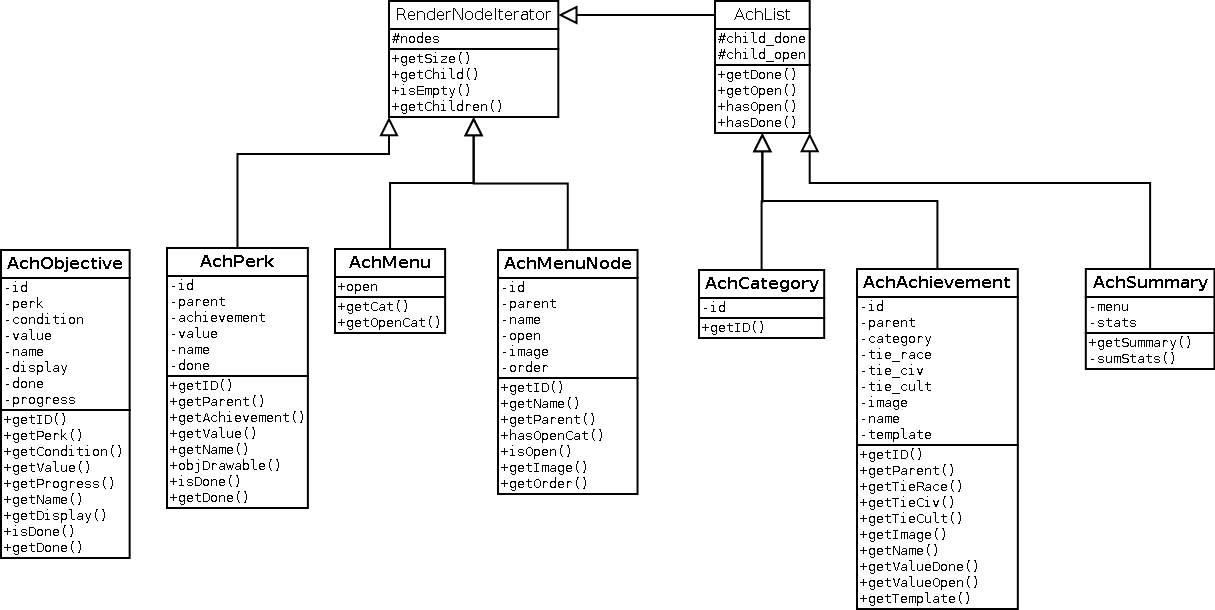
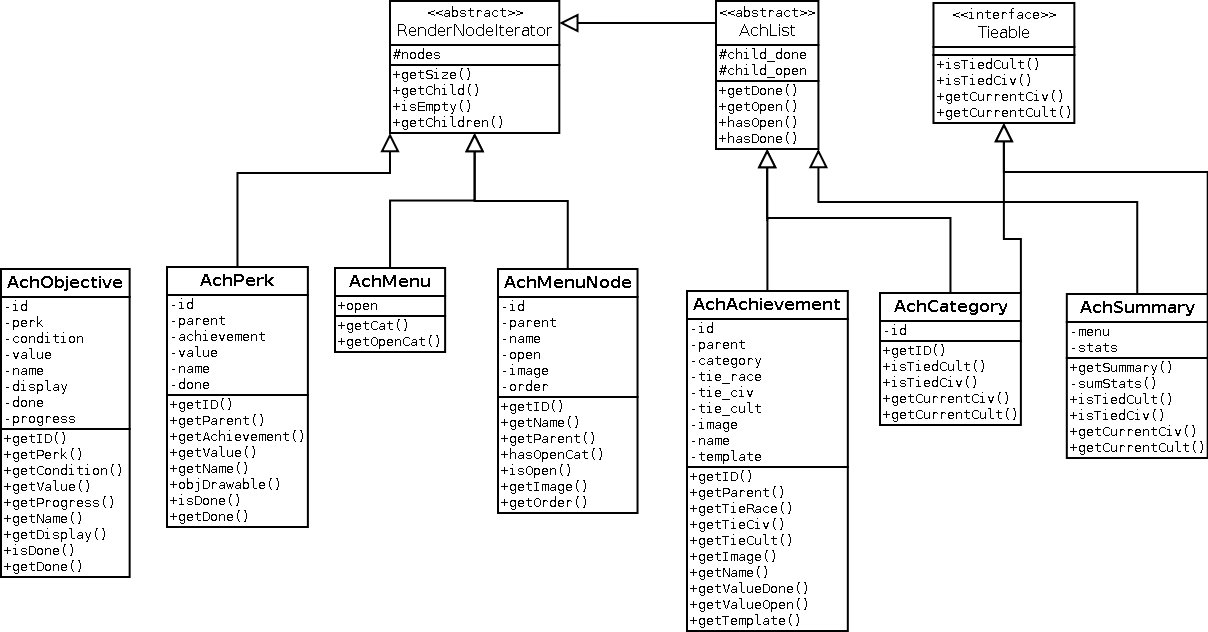
#1470 monday's push_all
--HG--
branch : gsoc2012-achievements

Changed region(s): [[0.0, 0.0, 1.0, 1.0], [0.827, 0.3738, 0.8576, 0.4049]]

diff --git a/code/web/app/app_achievements/_AchWebParser/class/Atom_class.php b/code/web/app/app_achievements/_AchWebParser/class/Atom_class.php
@@ -1,0 +1,162 @@
+<?php
+	class Atom {
+		private $ruleset;
+		private $ruleset_parsed;
+
+		private $id;
+		private $objective;
+
+		function Atom(&$data) {
+			$this->ruleset = $data['atom_ruleset'];
+			$this->ruleset_parsed = false;
+
+			$this->id = $data['atom_id'];
+			$this->objective = $data['atom_objective'];
+		}
+
+		private function parseRuleset() {
+			#WORKPAD:####
+			/*
+			Trigger:
+				by value
+				(by event)
+
+			Sources:
+				XML
+				valuecache
+				ring_open
+				(Achievement Service)
+					(Mirror Service)
+			
+			Keywords:
+				VALUE
+				GRANT:EVENT player_death
+				DENY:TIMER 3600
+				RESET
+				RESET_ALL
+				UNLOCK
+				UNLOCK_ALL
+
+				IF
+				SCRIPT
+				MSG
+			
+			VALUE dappers = c_money
+			IF(dappers >= 5000) {
+				GRANT
+			}
+			
+			VALUE tmp = c_fame[scorchers]
+			IF(tmp == 0) {
+				DENY:3600
+			}
+			
+			VALUE x = c_pos_x
+			VALUE y = c_pos_y
+			SCRIPT inside(x,y) {
+				IF(MSG == "Majestic Garden") {
+					GRANT
+				}
+			}
+
+			EVENT player_death
+			ON player_death {
+				UNLOCK
+			}
+
+			EVENT region_changed
+			ON region_changed {
+				IF(MSG == "Majestic Garden") {
+					GRANT
+				}
+			}
+			*/
+			#############
+
+
+			VALUE var = name
+
+			IF(statement) {
+
+			}
+
+			SCRIPT script(a,r,g,s) {
+				MSG
+			}
+
+			EVENT name
+			
+			ON name {
+				MSG
+			}
+
+			GRANT
+			GRANT:EVENT name
+			GRANT:TIMER seconds
+
+			DENY
+			DENY:EVENT name
+			DENY:TIMER seconds
+
+			RESET
+			RESET_ALL
+			UNLOCK
+			UNLOCK_ALL
+		}
+
+		function evalRuleset($user) {
+			global $DBc,$_DATA;
+
+			if($this->ruleset_parsed == false) {
+				$this->parseRuleset();
+			}
+
+			try {
+				return eval($this->ruleset_parsed);
+			}
+			catch(Exception $e) {
+				return $e->getMessage()
+			}
+		}
+
+		private function grant($user,$condition) {
+			global $DBc;
+
+			$DBc->sendSQL("INSERT INTO ach_player_atom (apa_atom,apa_player,apa_date,apa_expire,apa_state) VALUES ('".$this->id."','".$user."','".date()."','".$DBc->mre($condition)."','GRANT')","NONE");
+		}
+
+		private function deny($user,$condition) {
+			global $DBc;
+
+			$DBc->sendSQL("INSERT INTO ach_player_atom (apa_atom,apa_player,apa_date,apa_expire,apa_state) VALUES ('".$this->id."','".$user."','".date()."','".$DBc->mre($condition)."','DENY')","NONE");
+		}
+
+		private function reset_($user) {
+			global $DBc;
+
+			$DBc->sendSQL("DELETE FROM ach_player_atom WHERE apa_atom='".$this->id."' AND apa_player='".$user."'","NONE");
+		}
+
+		private function reset_all() {
+
+		}
+
+		private function unlock($user) {
+			global $DBc;
+
+			$DBc->sendSQL("DELETE FROM ach_player_atom WHERE apa_atom='".$this->id."' AND apa_player='".$user."' AND apa_state='DENY'","NONE");
+		}
+
+		private function unlock_all() {
+
+		}
+
+		function getID() {
+			return $this->id;
+		}
+
+		function getObjective() {
+			return $this->objective;
+		}
+	}
+?>

diff --git a/code/web/app/app_achievements/_AchWebParser/AchWebParser.php b/code/web/app/app_achievements/_AchWebParser/AchWebParser.php
@@ -20,6 +20,8 @@
 	require_once("class/DataSourceHandler_class.php");
 	require_once("class/DataSource_abstract.php");
 
+	require_once("class/Atom_class.php");
+
 	//create datasource handler
 	$_DATA = new DataSourceHandler();
 	foreach($CONF['data_source'] as $elem) { //populate
@@ -42,35 +44,7 @@
 		#MISSING: evaluate perk
 	}
 
-	#WORKPAD:####
-
-	Trigger:
-		by value
-		(by event)
-
-	Sources:
-		XML
-		valuecache
-		(Achievement Service)
-			(Mirror Service)
-
 	
-	VALUE dappers = c_money
-	if(dappers >= 5000) {
-		GRANT
-	}
-	
-	VALUE tmp = c_fame[scorchers]
-	if(tmp == 0) {
-		DENY:3600
-	}
-
-	EVENT:player_death
-	ON player_death {
-		UNLOCK
-	}
-
-	#############
 
 
 

diff --git a/code/web/app/app_achievements/class/Tieable_inter.php b/code/web/app/app_achievements/class/Tieable_inter.php
@@ -1,0 +1,11 @@
+<?php
+	interface Tieable {
+		function isTiedCult();
+
+		function isTiedCiv();
+
+		function getCurrentCiv();
+
+		function getCurrentCult();
+	}
+?>
